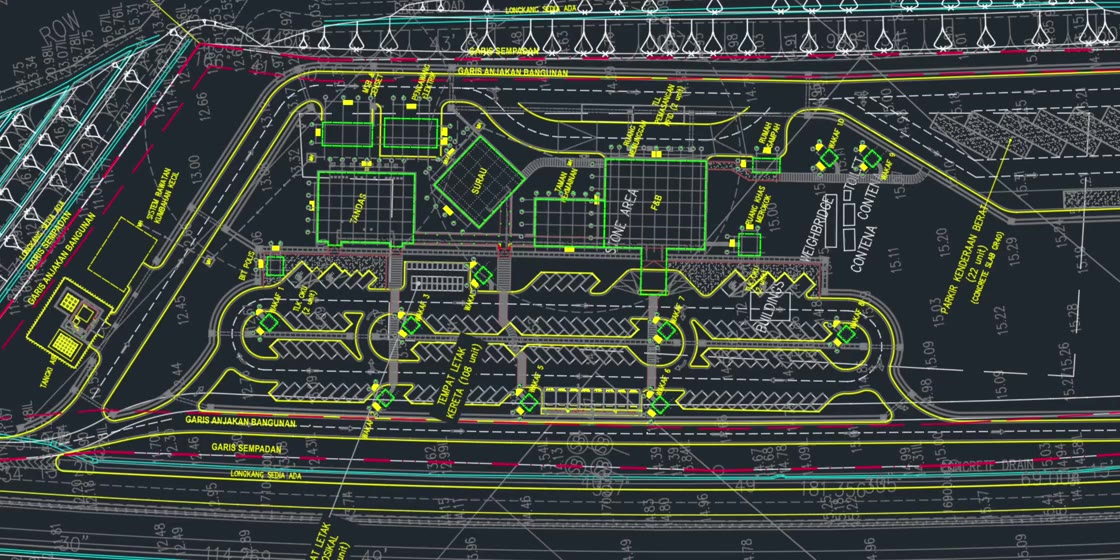
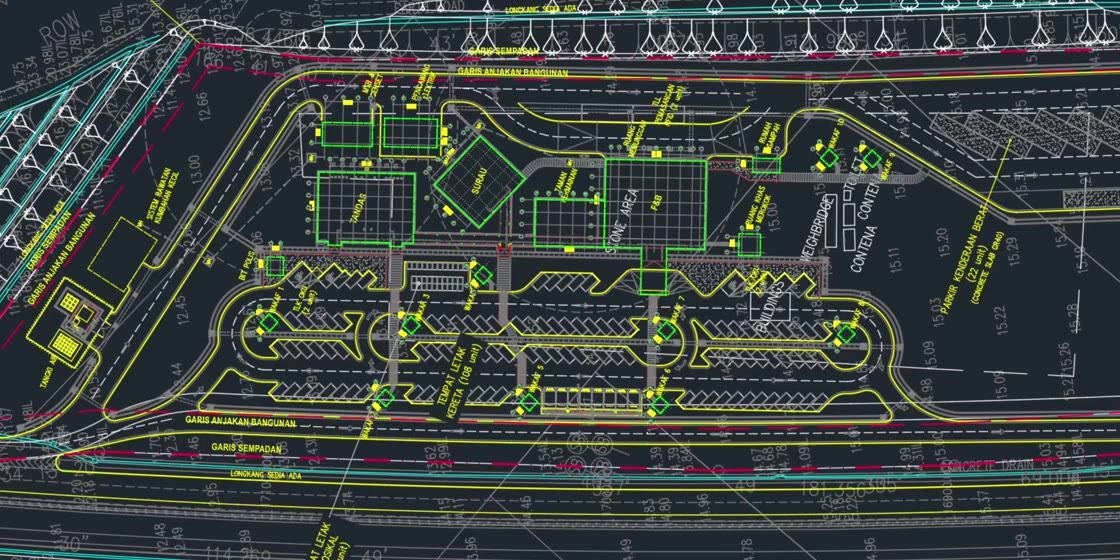
Review fixes: reduced motion, project detail, timelines, lazy videos
From the Impeccable scan and three reviews (recruiter, engineer, designer):
- Reduced motion on desktop: projects stack in a two-column grid instead of a
  sideways strip with no scroll cue that hid five of six projects.
- Each project card adds the hard part and a Built with line, taken from the
  project READMEs; dead ledger code removed.
- Experience and Education: one left-aligned column, dates on the rail, no
  fade-in, so no half-empty screens.
- Project videos download only when their card comes near the screen; the
  CAD poster is smaller. Cards refit whenever their height changes.

Claude-Session: https://claude.ai/code/session_0173UcbbGt8zhknLs8NgQLxC

diff --git a/index.html b/index.html
@@ -322,6 +322,9 @@ a{color:inherit}
 .sc-txt .tag.f{background:var(--ink);color:var(--bg)}
 .sc-txt h3{font-size:clamp(1.5rem,2.4vw,2.2rem);line-height:1.05;text-wrap:balance}
 .sc-txt .d{color:var(--muted);max-width:44ch}
+.sc-txt .hard{max-width:46ch;font-size:.95rem;line-height:1.45}
+.sc-txt .bw{font-size:.86rem;color:var(--muted);display:flex;flex-wrap:wrap;gap:.2rem .5rem;align-items:baseline}
+.sc-txt .bw span{font-weight:700;color:var(--ink)}
 .sc-txt .links{display:flex;gap:.6rem;flex-wrap:wrap;align-items:center}
 .sc-txt .nolink{color:var(--muted);font-weight:500;font-size:.92rem}
 @media (max-width:860px){
@@ -794,6 +797,36 @@ body{background-image:none}
 @media (max-width:860px){.cam .liq{display:none}.cam.liquid.live .pa{visibility:visible}}
 /* v85: on phones and tablets the stacked project cards keep the page's side margins */
 @media (max-width:860px){#stg{padding-inline:var(--gutter);box-sizing:border-box}}
+/* v87: with reduced motion on desktop, the projects stack vertically like on phones instead of becoming a sideways strip with no scroll cue */
+@media (min-width:861px) and (prefers-reduced-motion:reduce){
+  #hpin .hsticky{position:static;height:auto;display:block;overflow:visible}
+  #hpin .htrack{display:block;width:auto;overflow:visible;scroll-snap-type:none;transform:none!important;padding:0}
+  #hpin #stg{padding-inline:var(--gutter);box-sizing:border-box;display:grid;grid-template-columns:repeat(2,minmax(0,1fr));gap:clamp(2rem,4vw,4rem) clamp(1.5rem,3vw,3rem);max-width:1400px;margin:0 auto}
+  #stg .slide{flex:none;height:auto;display:block;padding:0!important;translate:none!important}
+  #stg .slide.feat-slide{grid-column:1/-1}
+  #stg .slide .sc{width:100%!important;max-width:none!important;scale:none!important}
+}
+/* v88: experience and education read as one left-aligned column (dates on the rail), with no fade-in, so there are no half-empty screens */
+:is(#tl,#edu){--rail:11rem;max-width:980px}
+:is(#tl,#edu)::before,:is(#tl,#edu)::after{left:calc(var(--rail) + 2.1rem)}
+:is(#tl,#edu) .ti,:is(#tl,#edu) .ti:nth-child(odd),:is(#tl,#edu) .ti:nth-child(even){grid-template-columns:var(--rail) 2.2rem minmax(0,1fr);gap:0 1rem;padding-bottom:clamp(1.8rem,3vw,2.6rem)}
+:is(#tl,#edu) .ti::before{left:calc(var(--rail) + 2.1rem - 7px)}
+:is(#tl,#edu) .ti:nth-child(n) .t{display:block;grid-column:1;grid-row:1;text-align:right;padding-top:.9rem}
+:is(#tl,#edu) .ti:nth-child(n) .c{grid-column:3;grid-row:1;text-align:left}
+:is(#tl,#edu) .ti:nth-child(n) .d{margin-left:0}
+.js :is(#tl,#edu) .ti:not(.in){opacity:1;transform:none}
+.js :is(#tl,#edu) .ti:not(.in) .c,.js :is(#tl,#edu) .ti:nth-child(even):not(.in) .c{clip-path:none}
+.js :is(#tl,#edu) .ti:not(.in) .t{opacity:1}
+.js :is(#tl,#edu) .ti:not(.in)::before{transform:none}
+:is(#tl,#edu) .ti .c{translate:none}
+@media (max-width:760px){
+  :is(#tl,#edu){--rail:0rem}
+  :is(#tl,#edu)::before,:is(#tl,#edu)::after{left:.5rem}
+  :is(#tl,#edu) .ti,:is(#tl,#edu) .ti:nth-child(odd),:is(#tl,#edu) .ti:nth-child(even){grid-template-columns:1.8rem minmax(0,1fr);gap:0 .6rem}
+  :is(#tl,#edu) .ti::before{left:calc(.5rem - 7px)}
+  :is(#tl,#edu) .ti:nth-child(n) .t{grid-column:2;grid-row:2;text-align:left;padding:.6rem 0 0}
+  :is(#tl,#edu) .ti:nth-child(n) .c{grid-column:2;grid-row:1}
+}
 </style>
 <link rel="icon" href="img/favicon.ico" sizes="any">
 <link rel="icon" type="image/png" sizes="32x32" href="img/favicon-32.png">
@@ -920,41 +953,20 @@ body{background-image:none}
   function svg(k) { return '<svg viewBox="0 0 320 200" aria-hidden="true">' + chrome + art[k] + '</svg>'; }
 
   var projects = [
-    { k: 'gator', n: 'GatorPath', d: 'A degree planner for SF State where the AI suggests and the code verifies, with every requirement cited to the official Bulletin.', t: ['Featured', 'AI', 'MCP'], l: [['Live demo', 'https://gatorpath.fly.dev'], ['Repo', 'https://github.com/ashleytzele/gatorpath']] },
-    { k: 'hw', n: 'Highway Digitalization Ecosystem', d: 'One identity for every roadside device across three systems, with fault correlation and a report-to-repair workflow.', t: ['OSPIT Mobility', 'Client work'], l: [] },
-    { k: 'cad', n: 'cad-to-map', d: 'Turns CAD site plans into interactive maps that work offline, with search and walking directions.', t: ['Open source', 'Python'], l: [['Repo', 'https://github.com/ashleytzele/cad-to-map']] },
-    { k: 'scout', n: 'ScoutMini', d: 'A Formula 1 assistant that answers only from real data and cites its sources.', t: ['AI', 'Python'], l: [['Repo', 'https://github.com/ashleytzele/scoutmini']] },
-    { k: 'split', n: 'SplitWise Swimming Analytics', d: 'Swim race analytics that turn simple stopwatch splits into pace and velocity charts.', t: ['Live demo', 'Flask'], l: [['Live demo', 'https://splitwise-mo3y.onrender.com'], ['Repo', 'https://github.com/ashleytzele/SplitWise-Swim']] },
-    { k: 'quorum', n: 'Quorum', d: 'Turns meeting recordings, transcripts and team notes into clean, templated minutes.', t: ['AI', 'Python'], l: [['Repo', 'https://github.com/ashleytzele/Quorum']] },
+    { k: 'gator', b: 'Python, FastAPI, MCP, Anthropic API', h: 'Every plan the AI drafts has to pass a check against rules parsed from the official Bulletin, so renumbered courses and invented prerequisites get caught before a student sees them.', n: 'GatorPath', d: 'A degree planner for SF State where the AI suggests and the code verifies, with every requirement cited to the official Bulletin.', t: ['Featured', 'AI', 'MCP'], l: [['Live demo', 'https://gatorpath.fly.dev'], ['Repo', 'https://github.com/ashleytzele/gatorpath']] },
+    { k: 'hw', b: '', h: 'Built at OSPIT Mobility: devices that each system named differently are matched to one identity, so a fault seen in one place can be traced across all three.', n: 'Highway Digitalization Ecosystem', d: 'One identity for every roadside device across three systems, with fault correlation and a report-to-repair workflow.', t: ['OSPIT Mobility', 'Client work'], l: [] },
+    { k: 'cad', b: 'Python, ezdxf, Shapely, MapLibre GL', h: 'Real drawings are messy, with unclosed outlines, mislabeled layers and nested blocks, so the converter cleans them into map data and routes walking directions offline.', n: 'cad-to-map', d: 'Turns CAD site plans into interactive maps that work offline, with search and walking directions.', t: ['Open source', 'Python'], l: [['Repo', 'https://github.com/ashleytzele/cad-to-map']] },
+    { k: 'scout', b: 'Python, Typer, OpenAI API, Jolpica-F1, FastF1', h: 'The model never answers from memory: it only sees the data the tools fetched, and every report prints its sources. The test suite runs with no network.', n: 'ScoutMini', d: 'A Formula 1 assistant that answers only from real data and cites its sources.', t: ['AI', 'Python'], l: [['Repo', 'https://github.com/ashleytzele/scoutmini']] },
+    { k: 'split', b: 'Flask, SQLite, pandas, Chart.js, Render', h: 'Turns raw split times into velocity per segment, then lets a swimmer compare any two swims and see which variables move together.', n: 'SplitWise Swimming Analytics', d: 'Swim race analytics that turn simple stopwatch splits into pace and velocity charts.', t: ['Live demo', 'Flask'], l: [['Live demo', 'https://splitwise-mo3y.onrender.com'], ['Repo', 'https://github.com/ashleytzele/SplitWise-Swim']] },
+    { k: 'quorum', b: 'JavaScript, Supabase, Python, Flask', h: 'AI minutes are generated locally through a small bridge and are optional: if it is offline, the rest of the meeting flow still works.', n: 'Quorum', d: 'Turns meeting recordings, transcripts and team notes into clean, templated minutes.', t: ['AI', 'Python'], l: [['Repo', 'https://github.com/ashleytzele/Quorum']] },
   ];
-  var stackText = { hw: 'OSPIT Mobility, client work', cad: 'Python, MapLibre GL', scout: 'Python, Jolpica-F1 API', split: 'Flask, SQLite, Chart.js', quorum: 'Python, Flask, OpenAI API, Supabase', gator: 'Oct 2026 to present, MCP server, website' };
-  function lk(p, cls) {
-    return p.l.length ? p.l.map(function (x) { return '<a href="' + x[1] + '">' + x[0] + '</a>'; }).join('') : '<span class="nl">Client work</span>';
-  }
-  /* Option 1: ledger with preview that follows the cursor */
-  var peek = document.createElement('div'); peek.className = 'peek'; peek.setAttribute('aria-hidden', 'true'); document.body.appendChild(peek);
-  function ledger(el) {
-    if (!el) return;
-    el.innerHTML = '<div class="lh"><span>Project</span><span>What it is</span><span>Built with</span><span style="text-align:right">Links</span></div>' + projects.map(function (p) {
-      return '<div class="lr" data-k="' + p.k + '"><span class="pn">' + p.n + '</span><span class="ds">' + p.d + '</span><span class="st">' + stackText[p.k] + '</span><span class="lk">' + lk(p) + '</span></div>';
-    }).join('');
-    el.querySelectorAll('.lr').forEach(function (r) {
-      r.addEventListener('pointerenter', function () { peek.innerHTML = svg(r.getAttribute('data-k')); peek.classList.add('show'); });
-      r.addEventListener('pointermove', function (e) {
-        var x = e.clientX + 28; if (x + 320 > window.innerWidth) x = e.clientX - 328;
-        var y = Math.min(Math.max(e.clientY - 100, 76), window.innerHeight - 250);
-        peek.style.transform = 'translate(' + x + 'px,' + y + 'px)';
-      });
-      r.addEventListener('pointerleave', function () { peek.classList.remove('show'); });
-    });
-  }
   var stgEl = document.getElementById('stg');
   var HW_HTML = '<div class="hl"><div class="hl-up" aria-hidden="true"><svg viewBox="0 0 24 24"><path d="M12 19V5M5 12l7-7 7 7"/></svg><i></i></div><div class="hl-stack"><div class="hl-row"><svg viewBox="0 0 24 24" aria-hidden="true"><path d="M12 13h4" />  <path d="M12 18h6a2 2 0 012 2v1" />  <path d="M12 8h8" />  <path d="M12 9a4.17 4.17 0 01-3 4" />  <path d="M16 8V5a2 2 0 012-2" />  <path d="M6 18a4 4 0 01-2-7.465" />  <path d="M6.004 5.125a4 4 0 00-2.526 5.77" />  <path d="M6.294 6.294A3 3 0 1112 5v13a4 4 0 11-7.967-.518" />  <circle cx="16" cy="13" r="0.5" fill="currentColor" />  <circle cx="18" cy="3" r="0.5" fill="currentColor" />  <circle cx="20" cy="21" r="0.5" fill="currentColor" />  <circle cx="20" cy="8" r="0.5" fill="currentColor" /></svg><span class="hl-tag">Layer 4</span><span class="hl-name">Executive insight</span></div><div class="hl-row"><svg viewBox="0 0 24 24" aria-hidden="true"><path d="M12.83 2.18a2 2 0 0 0-1.66 0L2.6 6.08a1 1 0 0 0 0 1.83l8.58 3.91a2 2 0 0 0 1.66 0l8.58-3.9a1 1 0 0 0 0-1.83z" />  <path d="M2 12a1 1 0 0 0 .58.91l8.6 3.91a2 2 0 0 0 1.65 0l8.58-3.9A1 1 0 0 0 22 12" />  <path d="M2 17a1 1 0 0 0 .58.91l8.6 3.91a2 2 0 0 0 1.65 0l8.58-3.9A1 1 0 0 0 22 17" /></svg><span class="hl-tag">Layer 3</span><span class="hl-name">Enterprise planning</span></div><div class="hl-row"><svg viewBox="0 0 24 24" aria-hidden="true"><rect width="20" height="14" x="2" y="3" rx="2" />  <line x1="8" x2="16" y1="21" y2="21" />  <line x1="12" x2="12" y1="17" y2="21" /></svg><span class="hl-tag">Layer 2</span><span class="hl-name">Control centre</span></div><div class="hl-row"><svg viewBox="0 0 24 24" aria-hidden="true"><path d="M4.9 16.1C1 12.2 1 5.8 4.9 1.9" />  <path d="M7.8 4.7a6.14 6.14 0 0 0-.8 7.5" />  <circle cx="12" cy="9" r="2" />  <path d="M16.2 4.8c2 2 2.26 5.11.8 7.47" />  <path d="M19.1 1.9a9.96 9.96 0 0 1 0 14.1" />  <path d="M9.5 18h5" />  <path d="m8 22 4-11 4 11" /></svg><span class="hl-tag">Layer 1</span><span class="hl-name">Field sensing</span></div></div></div>';
   var SC_HTML = '<div class="term" role="img" aria-label="ScoutMini terminal: one command returns a pace report for Charles Leclerc at the 2024 Monaco Grand Prix, ending with its data source"><div class="term-bar" aria-hidden="true"><i></i><i></i><i></i><span>scoutmini</span></div><pre class="term-body" aria-hidden="true"></pre></div>';
-  var SW_HTML = '<figure class="cadv"><video src="img/splitwise.mp4" poster="img/splitwise-poster.jpg" width="1280" height="726" muted loop playsinline autoplay preload="metadata" aria-label="SplitWise demo: the dashboard, split times over time, velocity analysis and a side-by-side swim comparison"></video><figcaption><span>Dashboard</span><span>Trends</span><span>Velocity</span><span>Compare</span></figcaption></figure>';
-  var GP_HTML = '<figure class="cadv gpv"><video src="img/gatorpath.mp4" poster="img/gatorpath-poster.jpg" width="1280" height="720" muted loop playsinline autoplay preload="metadata" aria-label="GatorPath demo: choosing your record, the plan being built from the Bulletin, the graduation date, the weekly schedule and the chat assistant answering a question"></video><figcaption><span>Your record</span><span>Plan</span><span>Schedule</span><span>Ask Gator AI</span></figcaption></figure>';
-  var QM_HTML = '<figure class="cadv qmv"><video src="img/quorum.mp4" poster="img/quorum-poster.jpg" width="1280" height="736" muted loop playsinline autoplay preload="metadata" aria-label="Quorum demo: recording a meeting, writing a pre-meeting note, presenting it, generating the minutes and the finished minutes document"></video><figcaption><span>Record</span><span>Note</span><span>Present</span><span>Minutes</span></figcaption></figure>';
-  var BA_HTML = '<figure class="cadv"><video src="img/cad-to-map.mp4" poster="img/cad-poster.jpg" width="1120" height="560" muted loop playsinline autoplay preload="metadata" aria-label="A CAD site plan fades into the interactive map, which then tilts from 2D to 3D"></video><figcaption><span>CAD plan</span><span>2D map</span><span>3D map</span></figcaption></figure>';
+  var SW_HTML = '<figure class="cadv"><video data-src="img/splitwise.mp4" poster="img/splitwise-poster.jpg" width="1280" height="726" muted loop playsinline preload="none" aria-label="SplitWise demo: the dashboard, split times over time, velocity analysis and a side-by-side swim comparison"></video><figcaption><span>Dashboard</span><span>Trends</span><span>Velocity</span><span>Compare</span></figcaption></figure>';
+  var GP_HTML = '<figure class="cadv gpv"><video data-src="img/gatorpath.mp4" poster="img/gatorpath-poster.jpg" width="1280" height="720" muted loop playsinline preload="none" aria-label="GatorPath demo: choosing your record, the plan being built from the Bulletin, the graduation date, the weekly schedule and the chat assistant answering a question"></video><figcaption><span>Your record</span><span>Plan</span><span>Schedule</span><span>Ask Gator AI</span></figcaption></figure>';
+  var QM_HTML = '<figure class="cadv qmv"><video data-src="img/quorum.mp4" poster="img/quorum-poster.jpg" width="1280" height="736" muted loop playsinline preload="none" aria-label="Quorum demo: recording a meeting, writing a pre-meeting note, presenting it, generating the minutes and the finished minutes document"></video><figcaption><span>Record</span><span>Note</span><span>Present</span><span>Minutes</span></figcaption></figure>';
+  var BA_HTML = '<figure class="cadv"><video data-src="img/cad-to-map.mp4" poster="img/cad-poster.jpg" width="1120" height="560" muted loop playsinline preload="none" aria-label="A CAD site plan fades into the interactive map, which then tilts from 2D to 3D"></video><figcaption><span>CAD plan</span><span>2D map</span><span>3D map</span></figcaption></figure>';
   var PV = { hw: 0, cad: 1, scout: 2, split: 3, quorum: 4 };
   stgEl.innerHTML = projects.map(function (p, i) {
     var side = i % 2 ? 'r' : 'l';
@@ -962,17 +974,23 @@ body{background-image:none}
       ? p.l.map(function (x, j) { return '<a class="btn' + (j === 0 ? ' solid' : '') + '" href="' + x[1] + '">' + x[0] + '</a>'; }).join('')
       : '<span class="nolink">Client work, no public links</span>';
     var tags = p.t.map(function (x, j) { return '<span class="tag' + (j === 0 ? ' f' : '') + '">' + x + '</span>'; }).join('');
-    return '<div class="slide ' + side + (p.k === 'gator' ? ' feat-slide' : '') + '"><article class="sc ' + (p.k === 'gator' ? 'feat' : 'pv' + PV[p.k]) + '"><div class="sc-pic">' + (p.k === 'cad' ? BA_HTML : p.k === 'hw' ? HW_HTML : p.k === 'scout' ? SC_HTML : p.k === 'split' ? SW_HTML : p.k === 'gator' ? GP_HTML : p.k === 'quorum' ? QM_HTML : svg(p.k)) + '</div><div class="sc-txt"><div class="tags">' + tags + '</div><h3 class="disp">' + p.n + '</h3><p class="d">' + p.d + '</p><div class="links">' + links + '</div></div></article></div>';
+    return '<div class="slide ' + side + (p.k === 'gator' ? ' feat-slide' : '') + '"><article class="sc ' + (p.k === 'gator' ? 'feat' : 'pv' + PV[p.k]) + '"><div class="sc-pic">' + (p.k === 'cad' ? BA_HTML : p.k === 'hw' ? HW_HTML : p.k === 'scout' ? SC_HTML : p.k === 'split' ? SW_HTML : p.k === 'gator' ? GP_HTML : p.k === 'quorum' ? QM_HTML : svg(p.k)) + '</div><div class="sc-txt"><div class="tags">' + tags + '</div><h3 class="disp">' + p.n + '</h3><p class="d">' + p.d + '</p>' + (p.h ? '<p class="hard">' + p.h + '</p>' : '') + (p.b ? '<p class="bw"><span>Built with</span>' + p.b + '</p>' : '') + '<div class="links">' + links + '</div></div></article></div>';
   }).join('');
   if (window.matchMedia('(prefers-reduced-motion:reduce)').matches) {
-    document.querySelectorAll('.cadv video').forEach(function (v) { v.removeAttribute('autoplay'); v.pause(); v.controls = true; });
+    document.querySelectorAll('.cadv video').forEach(function (v) { v.src = v.getAttribute('data-src'); v.preload = 'metadata'; v.controls = true; });
   }
   /* v86: videos built from a string can miss the muted flag on iPhone, which blocks autoplay. Set it as a property and play when on screen */
   if (!window.matchMedia('(prefers-reduced-motion:reduce)').matches && 'IntersectionObserver' in window) {
+    /* v89: a video downloads only when its card comes near the screen, then plays while visible */
+    var near = new IntersectionObserver(function (es) {
+      es.forEach(function (e) { if (e.isIntersecting && !e.target.getAttribute('src')) { e.target.src = e.target.getAttribute('data-src'); near.unobserve(e.target); } });
+    }, { rootMargin: '300px' });
     var vio = new IntersectionObserver(function (es) {
-      es.forEach(function (e) { var v = e.target; if (e.isIntersecting) { var pr = v.play(); if (pr && pr.catch) pr.catch(function () {}); } else v.pause(); });
+      es.forEach(function (e) { var v = e.target; if (e.isIntersecting) { if (!v.getAttribute('src')) v.src = v.getAttribute('data-src'); var pr = v.play(); if (pr && pr.catch) pr.catch(function () {}); } else v.pause(); });
     }, { threshold: .25 });
-    document.querySelectorAll('.cadv video').forEach(function (v) { v.muted = true; v.defaultMuted = true; v.playsInline = true; v.setAttribute('playsinline', ''); vio.observe(v); });
+    document.querySelectorAll('.cadv video').forEach(function (v) { v.muted = true; v.defaultMuted = true; v.playsInline = true; v.setAttribute('playsinline', ''); near.observe(v); vio.observe(v); });
+  } else if (!('IntersectionObserver' in window)) {
+    document.querySelectorAll('.cadv video').forEach(function (v) { v.src = v.getAttribute('data-src'); v.autoplay = true; });
   }
   /* ScoutMini terminal: types the command, prints the report, loops */
   (function () {
@@ -1069,6 +1087,11 @@ body{background-image:none}
   window.addEventListener('resize', function () { hfit(); hsize(); hmove(); });
   hfit(); hsize(); hmove();
   window.addEventListener('load', function () { hfit(); hmove(); });
+  /* v90: refit when a card changes height (a video's real size arrives, the terminal types, fonts swap) */
+  if ('ResizeObserver' in window) {
+    var refit = null, ro = new ResizeObserver(function () { if (refit) return; refit = requestAnimationFrame(function () { refit = null; hfit(); hmove(); }); });
+    slideEls.forEach(function (sl) { if (sl.firstElementChild) ro.observe(sl.firstElementChild); });
+  }
   if (document.fonts && document.fonts.ready) document.fonts.ready.then(function () { hfit(); hmove(); });
 
   /* Split hero name into letters for the entrance */
